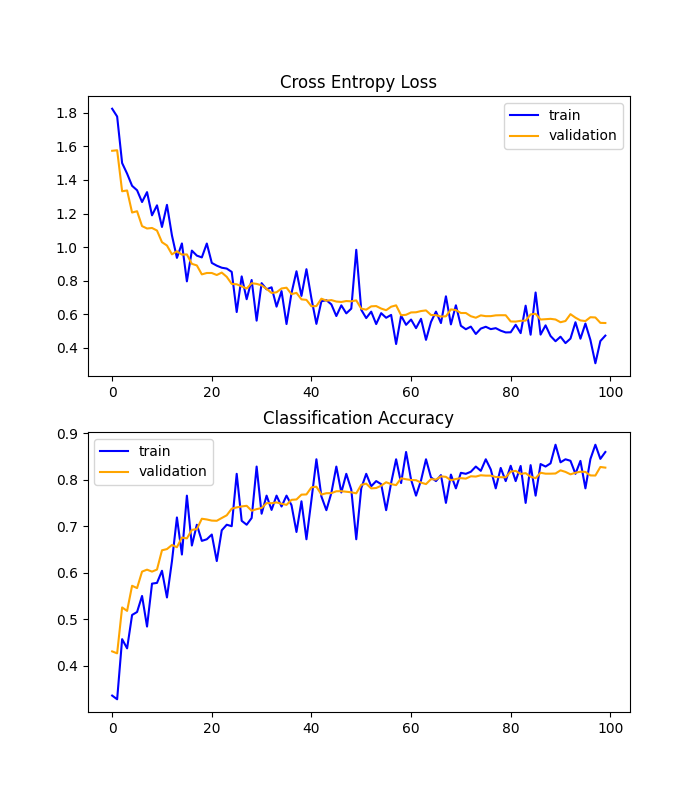
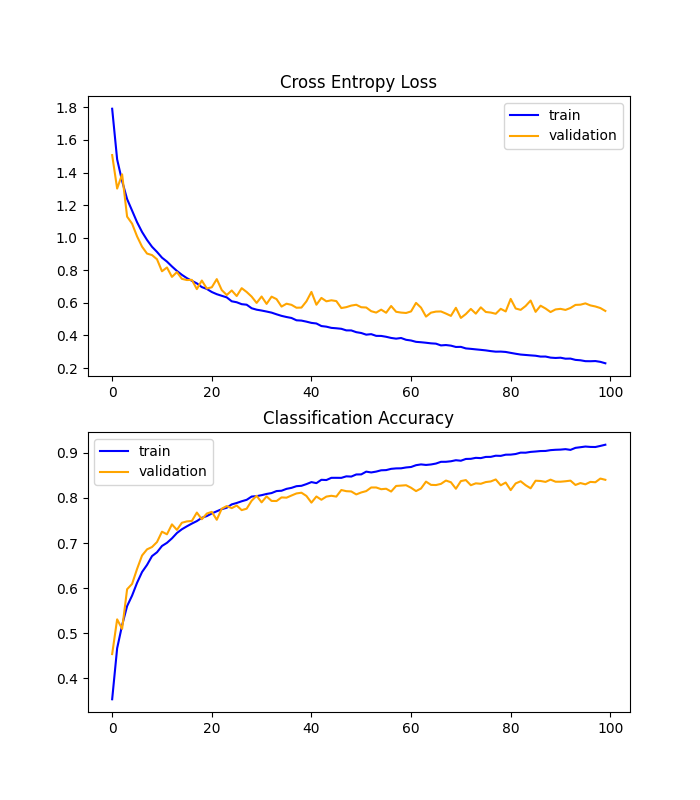
Add three regularization models, and a combined model

diff --git a/main.py b/main.py
@@ -1,25 +1,24 @@
 import numpy as np
-import sys
+import math
 import scipy
 from matplotlib import pyplot
 from keras.datasets import cifar10
-from keras.utils import to_categorical
+from tensorflow.keras.utils import to_categorical
 from keras.models import Sequential
 from keras.layers import Conv2D
 from keras.layers import MaxPooling2D
 from keras.layers import Dense
 from keras.layers import Flatten
 from keras.layers import Dropout  # Import Dropout layer
-from keras.optimizers import SGD
+from tensorflow.keras.optimizers import SGD
 from keras.regularizers import l2
 from keras.datasets import cifar10
-#from keras.preprocessing.image import ImageDataGenerator
-from tensorflow.keras.preprocessing.image import ImageDataGenerator
-
+from keras.preprocessing.image import ImageDataGenerator
+from keras.layers import BatchNormalization
 
 def main():
     # Choose which test harness to run
-    # run_test_harness() # Uncomment for original, dropout or weight decay model 
+    #run_test_harness() # Uncomment for original, dropout or weight decay model 
     run_augmentation_harness() # Uncomment for data augmentation model
 
 # run the test harness for evaluating a basic, dropout or weight decay model
@@ -31,7 +30,7 @@ def run_test_harness():
     # Choose between basic, dropout or weight decay model (uncomment desired)
     # model = define_model() # Basic model
     # model = dropout_model() # With dropout
-    model = decay_model() # With weight decay
+    model = dropout_model() # With weight decay
     
     # fit model, should eventually get validation data from training data
     history = model.fit(trainX, trainY, epochs=100, batch_size=64, validation_data=(validX, validY), verbose=1)
@@ -39,7 +38,7 @@ def run_test_harness():
     _, acc = model.evaluate(testX, testY, verbose=1)
     print('> %.3f' % (acc * 100.0))
     # learning curves
-    summarize_diagnostics(history, "test_plot")
+    summarize_diagnostics(history, "test")
 
 # run the test harness for evaluating a data augmentation model
 def run_augmentation_harness():
@@ -50,15 +49,20 @@ def run_augmentation_harness():
     (trainX, trainY), (validX, validY), (testX, testY) = load_dataset()
 
     # define model
-    model = define_model() # Basic model
-
+    #model = define_model() # Basic model
+    model = combined_model() #combined model with dropout and batch normalization
+    batch_size = 64
     # create data generator
     datagen = ImageDataGenerator(width_shift_range=0.1, height_shift_range=0.1, horizontal_flip=True)
     # prepare iterator
-    it_train = datagen.flow(trainX, trainY, batch_size=64)
+    it_train = datagen.flow(trainX, trainY, batch_size=batch_size)
     
     # fit model
-    steps = int(trainX.shape[0] / 64)
+    steps = math.ceil(trainX.shape[0] / batch_size)
+
+    print(steps)
+    print(trainX.shape)     
+    
     history = model.fit(it_train, steps_per_epoch=steps, epochs=100, 
                         validation_data=(validX, validY), verbose=1)
     
@@ -66,7 +70,7 @@ def run_augmentation_harness():
     _, acc = model.evaluate(testX, testY, verbose=1)
     print('> %.3f' % (acc * 100.0))
     # learning curves
-    summarize_diagnostics(history, "data_augmentation")
+    summarize_diagnostics(history, "test")
 
 def define_model():
     """
@@ -90,11 +94,10 @@ def define_model():
     model.compile(optimizer=opt, loss='categorical_crossentropy', metrics=['accuracy'])
     return model
 
+""" def dropout_model():
 
-def dropout_model():
-    """
-    Define model with dropout.
-    """
+    #Define model with dropout.
+    
     model = Sequential()
     model.add(Conv2D(32, (3, 3), activation='relu', kernel_initializer='he_uniform', padding='same', input_shape=(32, 32, 3)))
     # Add dropout after the first convolutional layer
@@ -123,6 +126,41 @@ def dropout_model():
     model.add(Dropout(0.2))  # Adjust dropout rate as needed
     
     model.add(Dense(10, activation='softmax'))
+    # compile model
+    opt = SGD(learning_rate=0.001, momentum=0.9)
+    model.compile(optimizer=opt, loss='categorical_crossentropy', metrics=['accuracy'])
+    return model """
+
+def dropout_model():
+    #Define model with dropout.
+    
+    model = Sequential()
+    model.add(Conv2D(32, (3, 3), activation='relu', kernel_initializer='he_uniform', padding='same', input_shape=(32, 32, 3)))
+    model.add(Conv2D(32, (3, 3), activation='relu', kernel_initializer='he_uniform', padding='same'))
+    model.add(MaxPooling2D((2, 2)))
+    # Add dropout after the first set of convolutional layers
+    model.add(Dropout(0.20))  # We set dropout to %20 &retain %80 of nodes (can be adjusted)
+    
+    
+    model.add(Conv2D(64, (3, 3), activation='relu', kernel_initializer='he_uniform', padding='same'))
+    model.add(Conv2D(64, (3, 3), activation='relu', kernel_initializer='he_uniform', padding='same'))
+    model.add(MaxPooling2D((2, 2)))
+    # Add dropout after the second set of convolutional layers
+    model.add(Dropout(0.20))  
+    
+    model.add(Conv2D(128, (3, 3), activation='relu', kernel_initializer='he_uniform', padding='same'))
+    model.add(Conv2D(128, (3, 3), activation='relu', kernel_initializer='he_uniform', padding='same'))
+    model.add(MaxPooling2D((2, 2)))
+    # Add dropout after the third set of convolutional layers
+    model.add(Dropout(0.20))  
+
+    model.add(Flatten())
+    
+    model.add(Dense(128, activation='relu', kernel_initializer='he_uniform'))
+    # Add dropout before the fully connected layer
+    model.add(Dropout(0.2))  # Adjust dropout rate as needed
+    model.add(Dense(10, activation='softmax'))
+
     # compile model
     opt = SGD(learning_rate=0.001, momentum=0.9)
     model.compile(optimizer=opt, loss='categorical_crossentropy', metrics=['accuracy'])
@@ -168,10 +206,35 @@ def decay_model():
     model.compile(optimizer=opt, loss='categorical_crossentropy', metrics=['accuracy'])
     return model
 
-def augmentation_model():
-    """
-    Define model with data augmentation.
-    """
+def combined_model():
+    model = Sequential()
+    model.add(Conv2D(32, (3, 3), activation='relu', kernel_initializer='he_uniform', padding='same', input_shape=(32, 32, 3)))
+    model.add(BatchNormalization())
+    model.add(Conv2D(32, (3, 3), activation='relu', kernel_initializer='he_uniform', padding='same'))
+    model.add(BatchNormalization())
+    model.add(MaxPooling2D((2, 2)))
+    model.add(Dropout(0.2))
+    model.add(Conv2D(64, (3, 3), activation='relu', kernel_initializer='he_uniform', padding='same'))
+    model.add(BatchNormalization())
+    model.add(Conv2D(64, (3, 3), activation='relu', kernel_initializer='he_uniform', padding='same'))
+    model.add(BatchNormalization())
+    model.add(MaxPooling2D((2, 2)))
+    model.add(Dropout(0.3))
+    model.add(Conv2D(128, (3, 3), activation='relu', kernel_initializer='he_uniform', padding='same'))
+    model.add(BatchNormalization())
+    model.add(Conv2D(128, (3, 3), activation='relu', kernel_initializer='he_uniform', padding='same'))
+    model.add(BatchNormalization())
+    model.add(MaxPooling2D((2, 2)))
+    model.add(Dropout(0.4))
+    model.add(Flatten())
+    model.add(Dense(128, activation='relu', kernel_initializer='he_uniform'))
+    model.add(BatchNormalization())
+    model.add(Dropout(0.5))
+    model.add(Dense(10, activation='softmax'))
+    # compile model
+    opt = SGD(lr=0.001, momentum=0.9)
+    model.compile(optimizer=opt, loss='categorical_crossentropy', metrics=['accuracy'])
+    return model
 
 # plot diagnostic learning curves
 def summarize_diagnostics(history, filename):
